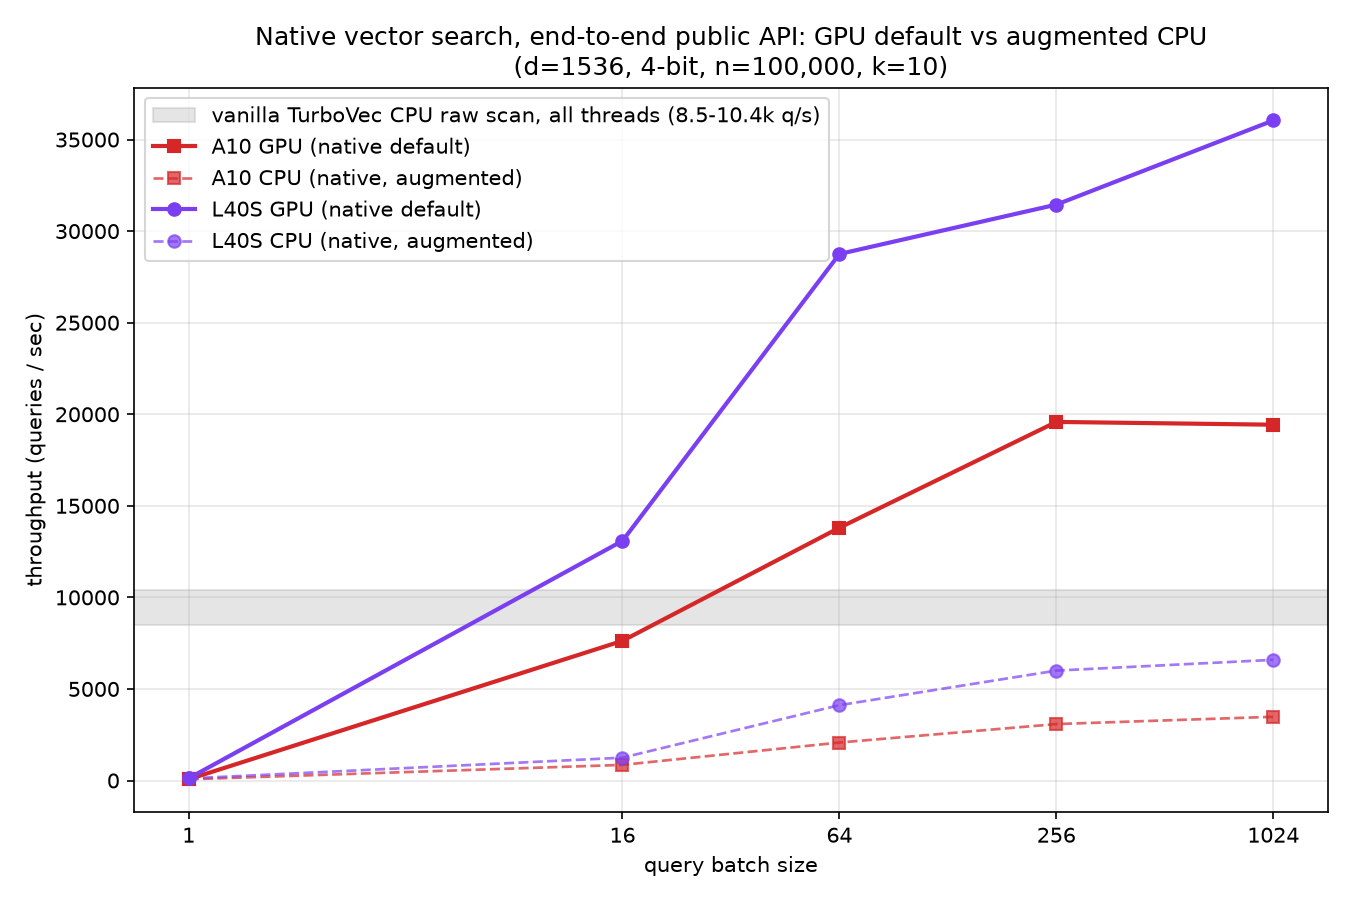
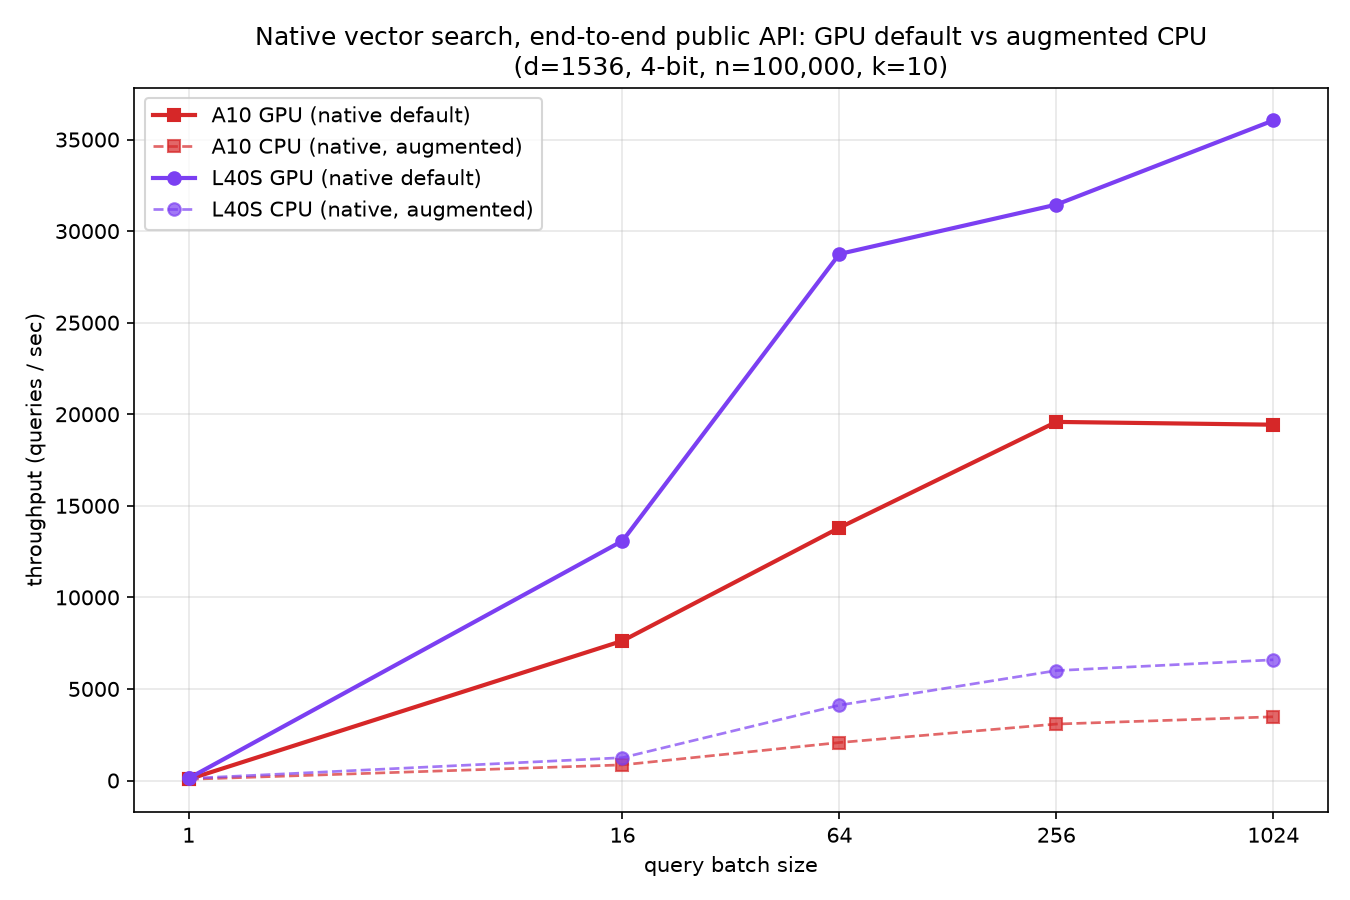
benchmarks: drop the raw-scan CPU band from the throughput chart
The vanilla-vs-augmented 8.5-10.4k band is a raw-scan number (public API
bypassed), not comparable to these end-to-end curves; our own CPU
end-to-end line already gives the like-for-like baseline. Plot GPU vs
that CPU line only.

Changed region(s): [[0.0933, 0.0933, 0.6222, 0.28], [0.0933, 0.6533, 0.9956, 0.7156]]

diff --git a/benchmarks/vector_search_native/diagrams.py b/benchmarks/vector_search_native/diagrams.py
@@ -16,13 +16,6 @@ import matplotlib.pyplot as plt
 _HERE = Path(__file__).resolve().parent
 _RESULTS = _HERE / "results"
 
-# Vanilla TurboVec CPU baseline (all threads) at d=1536, 4-bit, n=100,000, taken as
-# the fixed reference from benchmarks/gpu_vanilla_vs_augmented at the same config.
-# Our own native CPU path is augmented (multi-query SIMD fusion), so it is NOT this
-# baseline; the band is the plain-TurboVec starting point our GPU numbers stand on.
-_VANILLA_CPU_QPS_LOW = 8_500
-_VANILLA_CPU_QPS_HIGH = 10_400
-
 
 def _series(summary: dict, name: str) -> tuple[list[int], list[float]]:
     """Returns (batch_sizes, queries_per_sec) for one series, sorted by batch."""
@@ -56,19 +49,9 @@ def main() -> None:
     top_k = reference["top_k"]
 
     fig, ax = plt.subplots(figsize=(9, 6))
-    # Vanilla TurboVec CPU raw-scan band (all threads) as the reference baseline.
-    # It is a raw-scan number (API bypassed) while these curves are end-to-end
-    # through the public API; the GPU curves clear it by a wide margin regardless.
-    ax.axhspan(
-        _VANILLA_CPU_QPS_LOW,
-        _VANILLA_CPU_QPS_HIGH,
-        color="0.6",
-        alpha=0.25,
-        label=(
-            f"vanilla TurboVec CPU raw scan, all threads "
-            f"({_VANILLA_CPU_QPS_LOW / 1000:.1f}-{_VANILLA_CPU_QPS_HIGH / 1000:.1f}k q/s)"
-        ),
-    )
+    # Both series are end-to-end through the public API, so the GPU-vs-CPU gap is a
+    # like-for-like comparison. The vanilla-vs-augmented CPU band is deliberately not
+    # drawn: it is a raw-scan number (API bypassed), a different regime.
     series_defs = [
         ("a10", a10, {"color": "#d62728", "marker": "s"}),
         ("l40s", l40s, {"color": "#7b3ff2", "marker": "o"}),